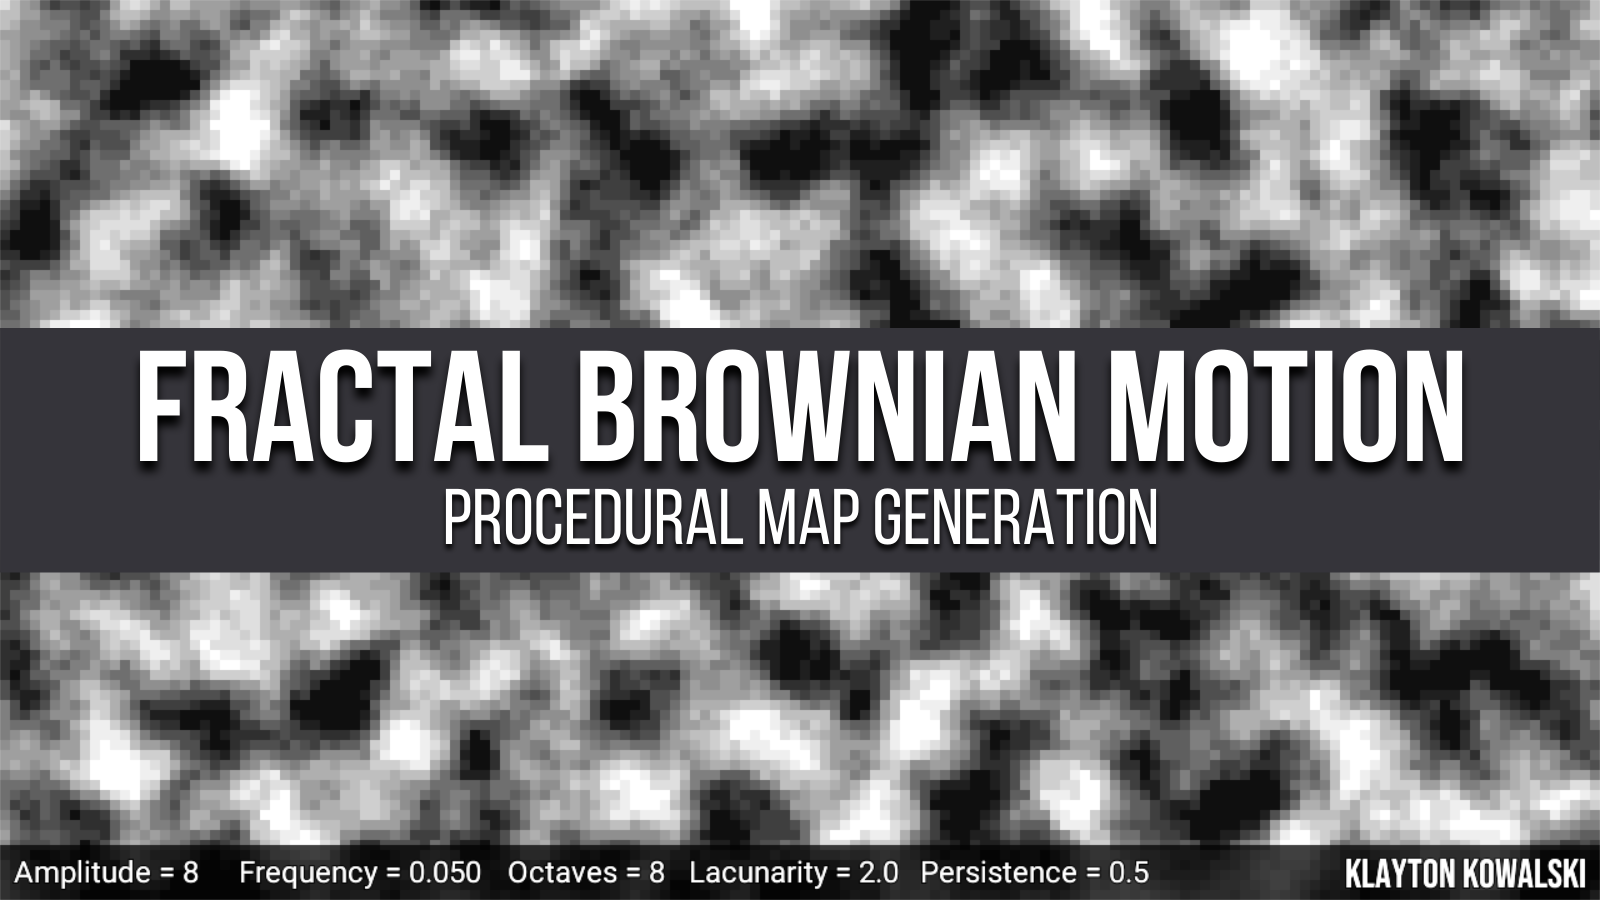
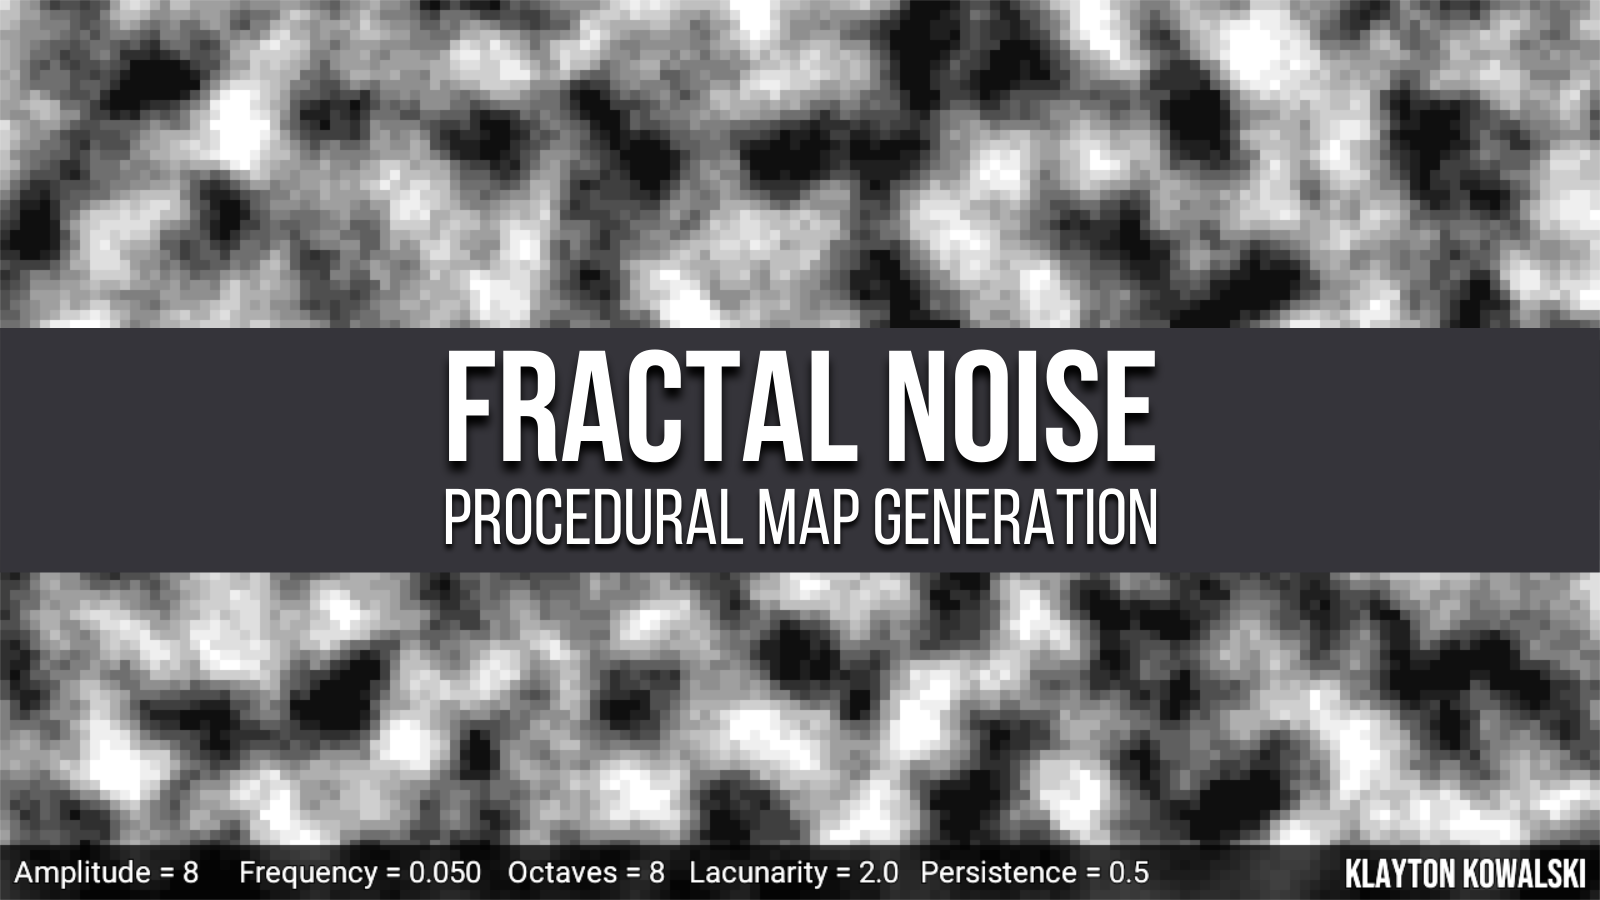
Changed name to Fractal Noise from Fractal Brownian Motion.

Changed region(s): [[0.0625, 0.3733, 0.9375, 0.5289]]

diff --git a/README.md b/README.md
@@ -1,12 +1,12 @@
-# Fractal Brownian Motion
-Demonstration of fractal Brownian motion and procedural map generation.
+# Fractal Noise
+Demonstration of fractal noise and procedural map generation.
 
 Watch the reference video: https://www.youtube.com/watch?v=  
-Play with the interactive HTML5 demo: https://klaytonkowalski.github.io/bundles/example-fractal-brownian-motion/index.html
+Play with the interactive HTML5 demo: https://klaytonkowalski.github.io/bundles/example-fractal-noise/index.html
 
 Please click the "Star" button on GitHub if you find this asset to be useful!
 
-![alt text](https://github.com/klaytonkowalski/example-fractal-brownian-motion/blob/main/assets/thumbnail.png?raw=true)
+![alt text](https://github.com/klaytonkowalski/example-fractal-noise/blob/main/assets/thumbnail.png?raw=true)
 
 ## Controls
 The demo uses the following controls:
